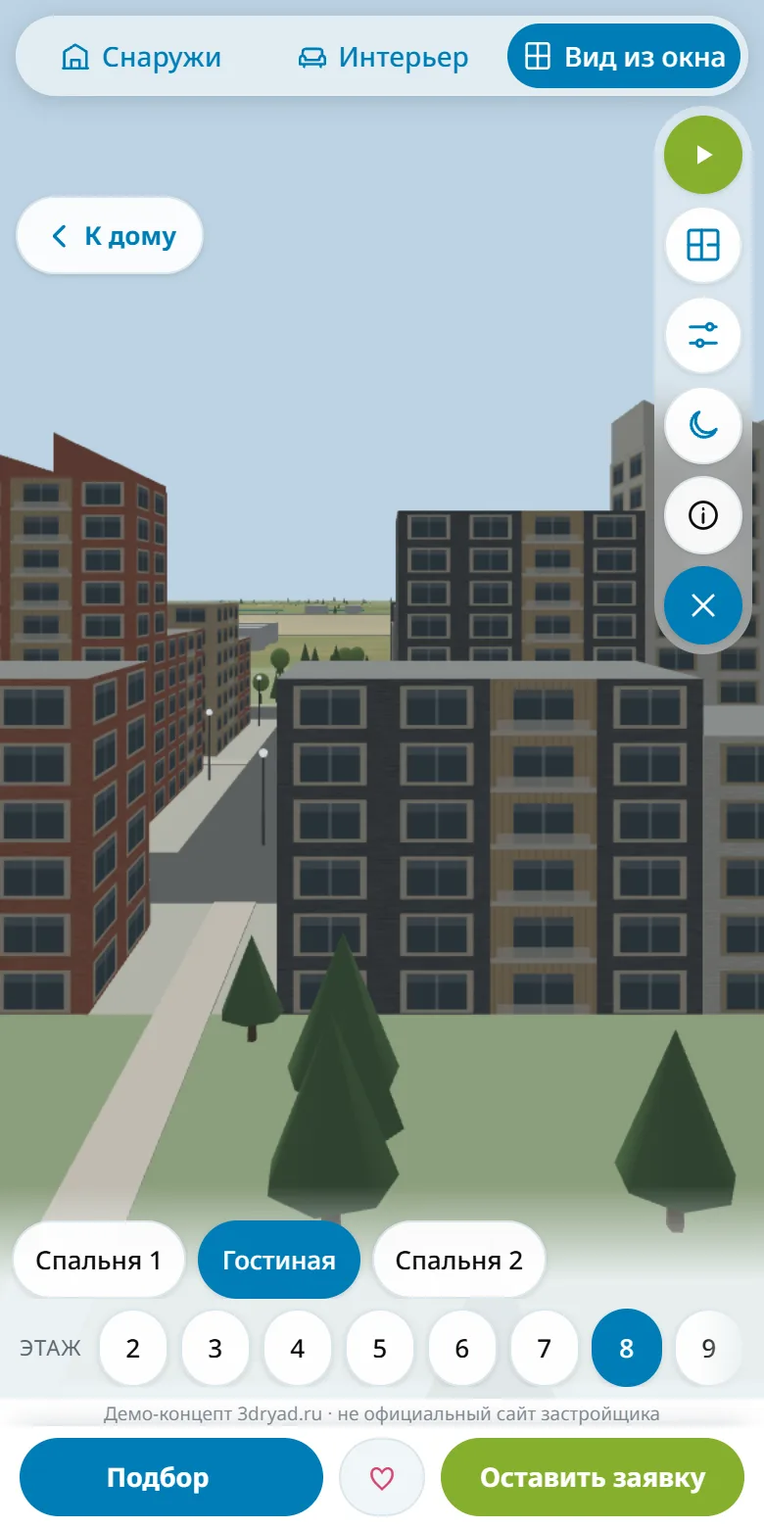
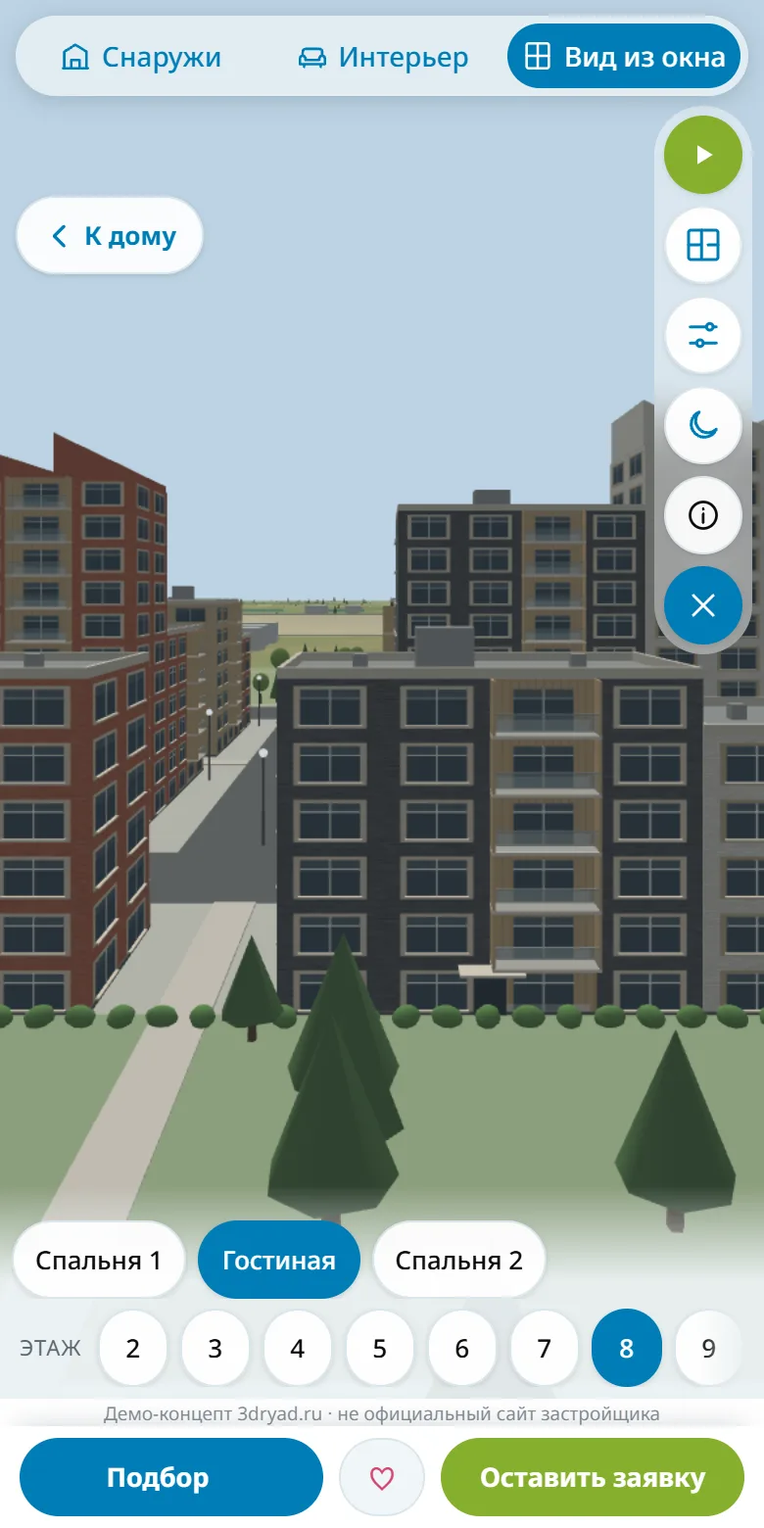
Детализация 3D: лоджии, окна, входы и кровли на фасадах; двери, шторы, кухня, санузел и декор в квартире; площадка, скамейки, изгороди во дворе

diff --git a/demo/index.html b/demo/index.html
@@ -843,13 +843,13 @@ body.siderail .fullnote{left:12px;right:auto;bottom:8px;width:236px;text-align:c
   const STYLES = {
     scandi: { name: 'Светлый', dots: ['#c9a77c', '#f1eee8', '#8f9aa0', '#5f8a78'], c: {
       floorW: '#cfae84', floorT: '#dfe4e3', wall: '#f0ede7', trim: '#fbfbfa', sofa: '#8d99a0', linen: '#e9e7e1', accent: '#5f8a78',
-      wood: '#b88f5e', cab: '#f1efea', counter: '#d6d2ca', dark: '#3a3f42', rug: '#ded6c6', metal: '#a2a8ab', slab: '#c8cdcd' } },
+      wood: '#b88f5e', cab: '#f1efea', counter: '#d6d2ca', dark: '#3a3f42', rug: '#ded6c6', metal: '#a2a8ab', slab: '#c8cdcd', curtain: '#e6e2da' } },
     loft: { name: 'Тёмный', dots: ['#5a4a3c', '#b9b4ac', '#6b4a37', '#c26a3a'], c: {
       floorW: '#6a5444', floorT: '#5a5e60', wall: '#b7b2aa', trim: '#d8d4cd', sofa: '#6d4b38', linen: '#4a5157', accent: '#c26a3a',
-      wood: '#7a5a3f', cab: '#2f3336', counter: '#55585a', dark: '#1f2224', rug: '#2e3033', metal: '#8a9094', slab: '#8e8b86' } },
+      wood: '#7a5a3f', cab: '#2f3336', counter: '#55585a', dark: '#1f2224', rug: '#2e3033', metal: '#8a9094', slab: '#8e8b86', curtain: '#5a5e63' } },
     warm: { name: 'Тёплый', dots: ['#a67c52', '#eadfd0', '#b87a56', '#8a3f2b'], c: {
       floorW: '#ad8358', floorT: '#d8cbbb', wall: '#eadfd0', trim: '#f7f1e8', sofa: '#b87a56', linen: '#f1e6d8', accent: '#8a3f2b',
-      wood: '#8c6239', cab: '#d8c5ad', counter: '#b9a186', dark: '#3b3029', rug: '#c9b59a', metal: '#a69a8e', slab: '#cdbfae' } }
+      wood: '#8c6239', cab: '#d8c5ad', counter: '#b9a186', dark: '#3b3029', rug: '#c9b59a', metal: '#a69a8e', slab: '#cdbfae', curtain: '#e9d7c2' } }
   };
 
   /* ---------- renderer ---------- */
@@ -948,7 +948,7 @@ body.siderail .fullnote{left:12px;right:auto;bottom:8px;width:236px;text-align:c
   /* ---------- materials ---------- */
   const mats = {};
   const std = (rough, metal) => new THREE.MeshStandardMaterial({ roughness: rough, metalness: metal || 0 });
-  ['wall', 'trim', 'sofa', 'linen', 'accent', 'wood', 'cab', 'counter', 'dark', 'rug', 'metal', 'slab'].forEach((k) => {
+  ['wall', 'trim', 'sofa', 'linen', 'accent', 'wood', 'cab', 'counter', 'dark', 'rug', 'metal', 'slab', 'curtain'].forEach((k) => {
     mats[k] = std(k === 'metal' ? 0.35 : 0.82, k === 'metal' ? 0.6 : 0);
   });
   mats.floorW = std(0.7); mats.floorW.map = plankTex();
@@ -962,6 +962,7 @@ body.siderail .fullnote{left:12px;right:auto;bottom:8px;width:236px;text-align:c
   mats.plant = std(0.9); mats.plant.color.set('#4f7a4a');
   mats.glass = new THREE.MeshBasicMaterial({ color: '#bcd8e3', transparent: true, opacity: 0.07, depthWrite: false });
   mats.glow = new THREE.MeshBasicMaterial({ color: '#fff6dd' });
+  mats.glass2 = new THREE.MeshPhongMaterial({ color: '#bfd6e0', specular: '#ffffff', shininess: 80, transparent: true, opacity: 0.35, depthWrite: false });
 
   /* ---------- groups ---------- */
   const root = new THREE.Group(); scene.add(root);
@@ -1114,6 +1115,94 @@ body.siderail .fullnote{left:12px;right:auto;bottom:8px;width:236px;text-align:c
   B('cab', 8.2, 6.05, 2.5, 0.5, 0.95); B('mirror', 8.7, 6.49, 1.2, 0.04, 1.4, 0.9);
   B('wood', 10.35, 6.0, 0.55, 0.5, 0.42);
   B('rug', 7.2, 4.8, 3.2, 0.9, 0.012);
+
+  /* ---------- design finish, the finer things: skirting, interior doors, curtains, radiators, a real kitchen and bathroom,
+     lamps and décor. Floor-standing pieces go to furn; anything hung on a wall above the cut line (1.1 m) goes to hiDecor,
+     shown only with the full-height walls, so nothing floats over the cut-away plan ---------- */
+  const hiDecor = new THREE.Group(), lowDecor = new THREE.Group(); root.add(hiDecor, lowDecor);
+  const Bh = (k, x, z, w, d, h, y0) => B(k, x, z, w, d, h, y0, hiDecor);
+  ROOMS.forEach((r) => {   // skirting, 8 cm, just inside the wall
+    const i = 0.06, t = 0.014, h = 0.08;
+    B('trim', r.x + i, r.z + i, r.w - 2 * i, t, h); B('trim', r.x + i, r.z + r.d - i - t, r.w - 2 * i, t, h);
+    B('trim', r.x + i, r.z + i, t, r.d - 2 * i, h); B('trim', r.x + r.w - i - t, r.z + i, t, r.d - 2 * i, h);
+  });
+  // interior doors: a frame in every opening, a leaf (in the accent colour, like the entrance) left ajar; the wide living-room opening stays open
+  function doorway(x, z, w, alongX, leaf, swing) {
+    [[hiDecor, 2.1], [lowDecor, CUT]].forEach((pair) => {
+      const grp = pair[0], hh = pair[1], t = 0.1;
+      if (alongX) { B('trim', x - 0.05, z - t / 2, 0.05, t, hh, 0, grp); B('trim', x + w, z - t / 2, 0.05, t, hh, 0, grp); if (hh > 2) B('trim', x - 0.05, z - t / 2, w + 0.1, t, 0.06, 2.1, grp); }
+      else { B('trim', x - t / 2, z - 0.05, t, 0.05, hh, 0, grp); B('trim', x - t / 2, z + w, t, 0.05, hh, 0, grp); if (hh > 2) B('trim', x - t / 2, z - 0.05, t, w + 0.1, 0.06, 2.1, grp); }
+      if (!leaf) return;
+      const g = new THREE.Group(); g.position.set(x, 0, z); g.rotation.y = swing; grp.add(g);
+      const lh = hh > 2 ? 2.04 : CUT - 0.02, d = new THREE.Mesh(new THREE.BoxGeometry(w - 0.04, lh, 0.04), mats.door); d.position.set(w / 2, lh / 2, 0); shade(d, true, true); g.add(d);
+      const h = new THREE.Mesh(new THREE.BoxGeometry(0.12, 0.03, 0.1), mats.metal); h.position.set(w - 0.12, 1.0, 0); g.add(h);
+    });
+  }
+  doorway(3.3, 0.5, 0.9, false, true, Math.PI / 2 + 0.55);      // bedroom 1 ↔ living, opens into the bedroom
+  doorway(6.2, 4.2, 1.4, true, false, 0);                      // living ↔ hall: an open passage
+  doorway(9.6, 4.2, 0.9, true, true, -0.5);                     // hall ↔ bedroom 2
+  doorway(2.8, 5.3, 0.8, false, true, Math.PI / 2 + 0.4);      // bathroom
+  doorway(6.0, 5.2, 0.9, false, true, Math.PI / 2 - 0.45);     // walk-in wardrobe
+  // curtains on a rod above every window, panels gathered at the sides
+  WIN.forEach((o) => {
+    const rod = new THREE.Mesh(new THREE.CylinderGeometry(0.012, 0.012, o.b - o.a + 0.5, 8).rotateZ(Math.PI / 2), mats.metal); rod.position.set((o.a + o.b) / 2, 2.5, 0.16); hiDecor.add(rod);
+    [o.a - 0.22, o.b - 0.12].forEach((x) => { B('curtain', x, 0.1, 0.34, 0.1, 2.45, 0.03, hiDecor).castShadow = false; B('curtain', x, 0.1, 0.34, 0.1, CUT - 0.05, 0.03, lowDecor).castShadow = false; });
+  });
+  // radiators under the windows (the design set; the pre-finish set lives in bareG)
+  WIN.forEach((o) => { const w = Math.min(1.0, o.b - o.a - 0.3), x = (o.a + o.b) / 2 - w / 2; B('white', x, 0.1, w, 0.06, 0.5, 0.22); for (let i = 0; i < 6; i++) B('trim', x + 0.08 + i * (w - 0.16) / 5, 0.09, 0.03, 0.08, 0.46, 0.24); });
+  // kitchen: handles, an oven, the hob rings, a hood, a splashback, a tap and a fridge handle
+  [0.95, 1.55, 2.15, 2.75].forEach((z) => B('metal', 7.17, z, 0.02, 0.2, 0.02, 0.8));
+  [0.95, 1.55, 2.15, 2.75].forEach((z) => B('metal', 7.4, z, 0.02, 0.2, 0.02, 1.56));
+  B('dark', 7.19, 1.35, 0.012, 0.5, 0.42, 0.22); B('metal', 7.17, 1.4, 0.02, 0.4, 0.02, 0.58);                  // oven door and its bar
+  [[7.33, 1.48], [7.57, 1.48], [7.33, 1.72], [7.57, 1.72]].forEach((p) => cyl('dark', p[0], 0.925, p[1], 0.08, 0.01));
+  Bh('white', 7.41, 0.7, 0.012, 2.6, 0.56, 0.93);                                                               // splashback
+  Bh('metal', 7.25, 1.15, 0.5, 0.9, 0.06, 1.42); Bh('metal', 7.45, 1.4, 0.3, 0.4, 0.06, 1.48);                  // hood
+  cyl('metal', 7.62, 0.92, 2.62, 0.016, 0.22); B('metal', 7.44, 2.61, 0.18, 0.02, 0.02, 1.12);                // tap
+  B('metal', 7.08, 0.62, 0.02, 0.03, 0.9, 0.8); B('dark', 7.095, 0.1, 0.01, 0.6, 0.01, 1.2);                  // fridge: handle, freezer line
+  // bathroom: water in the tub, a glass screen, taps, the washing-machine door, a towel rail, a light over the mirror
+  B('mirror', 0.18, 5.92, 1.55, 0.56, 0.02, 0.42);
+  { const s = new THREE.Mesh(new THREE.BoxGeometry(0.02, 1.4, 0.72), mats.glass2); s.position.set(0.9, 0.55 + 0.7, 6.21); furn.add(s); }
+  cyl('metal', 0.5, 0.86, 4.52, 0.016, 0.2); B('metal', 0.49, 4.5, 0.02, 0.14, 0.02, 1.04);                   // basin tap
+  cyl('metal', 1.78, 0.55, 6.2, 0.016, 0.18);                                                                   // tub tap
+  { const d = new THREE.Mesh(new THREE.CylinderGeometry(0.2, 0.2, 0.012, 20).rotateX(Math.PI / 2), mats.dark); d.position.set(1.65, 0.45, 4.905); furn.add(d);
+    const r = new THREE.Mesh(new THREE.CylinderGeometry(0.14, 0.14, 0.014, 20).rotateX(Math.PI / 2), mats.mirror); r.position.set(1.65, 0.45, 4.91); furn.add(r); }
+  B('white', 2.1, 6.0, 0.4, 0.55, 0.03, 0.4); B('dark', 2.16, 6.06, 0.28, 0.4, 0.01, 0.43);                    // toilet seat and lid gap
+  B('metal', 2.73, 5.0, 0.02, 0.6, 0.02, 1.05); B('accent', 2.69, 5.05, 0.04, 0.5, 0.45, 0.6);                // towel rail with a towel
+  Bh('glow', 0.25, 4.29, 0.6, 0.02, 0.03, 2.12);
+  // bedrooms: pillows, padded headboards, lamps on the nightstands, wardrobe doors, a laptop on the desk, a picture
+  function pillow(x, z, y) { const p = new THREE.Mesh(new THREE.SphereGeometry(0.22, 12, 8), mats.white); p.position.set(x, y, z); p.scale.set(1, 0.42, 0.72); shade(p, true, true); furn.add(p); }
+  function lamp(x, z, y) { cyl('metal', x, y, z, 0.06, 0.02); cyl('metal', x, y + 0.02, z, 0.012, 0.28); const s = new THREE.Mesh(new THREE.CylinderGeometry(0.1, 0.13, 0.17, 16, 1, true), mats.linen); s.material.side = THREE.DoubleSide; s.position.set(x, y + 0.38, z); furn.add(s); }
+  function floorLamp(x, z) { cyl('metal', x, 0, z, 0.14, 0.02); cyl('metal', x, 0.02, z, 0.014, 1.45); const s = new THREE.Mesh(new THREE.CylinderGeometry(0.16, 0.2, 0.28, 18, 1, true), mats.linen); s.material.side = THREE.DoubleSide; s.position.set(x, 1.58, z); furn.add(s); }
+  pillow(0.5, 1.65, 0.6); pillow(0.5, 2.55, 0.6); pillow(10.55, 1.35, 0.6); pillow(10.55, 2.25, 0.6);
+  B('sofa', 0.08, 1.28, 0.05, 1.64, 0.6, 0.45); B('sofa', 10.87, 0.98, 0.05, 1.64, 0.6, 0.45);
+  lamp(0.3, 1.02, 0.45); lamp(0.3, 3.17, 0.45); lamp(10.7, 0.72, 0.45); lamp(10.7, 2.87, 0.45);
+  [1, 2, 3].forEach((k) => { B('dark', 0.1 + 0.575 * k - 0.004, 3.54, 0.008, 0.012, 2.2, 0.05); B('metal', 0.1 + 0.575 * k - 0.07, 3.53, 0.02, 0.012, 0.22, 1.0); });
+  [1, 2, 3].forEach((k) => { B('dark', 8.42, 0.9 + 0.55 * k - 0.004, 0.012, 0.008, 2.2, 0.05); B('metal', 8.43, 0.9 + 0.55 * k - 0.07, 0.012, 0.02, 0.22, 1.0); });
+  B('dark', 2.4, 0.35, 0.32, 0.22, 0.015, 0.745); B('dark', 2.4, 0.33, 0.32, 0.012, 0.2, 0.76);                // laptop
+  lamp(3.05, 0.35, 0.74);
+  Bh('accent', 0.085, 1.85, 0.02, 0.55, 0.42, 1.45); Bh('linen', 0.087, 1.9, 0.02, 0.45, 0.32, 1.5);          // picture over the bed
+  Bh('linen', 10.9, 1.5, 0.02, 0.6, 0.45, 1.45); Bh('accent', 10.898, 1.55, 0.02, 0.5, 0.35, 1.5);
+  // living room: cushions on the sofa, a throw, a floor lamp, shelves with books over the TV, a bowl on the coffee table
+  B('sofa', 5.0, 2.5, 0.28, 0.75, 0.3, 0.42); B('sofa', 5.0, 3.25, 0.28, 0.75, 0.3, 0.42);
+  B('linen', 4.9, 3.6, 0.6, 0.5, 0.06, 0.84);
+  floorLamp(5.75, 4.05);
+  B('accent', 4.25, 3.15, 0.2, 0.2, 0.08, 0.38); B('white', 4.15, 2.9, 0.16, 0.16, 0.05, 0.38);
+  Bh('wood', 3.32, 1.9, 0.25, 1.9, 0.03, 1.75); Bh('wood', 3.32, 1.9, 0.25, 1.9, 0.03, 2.2);
+  [[2.0, 'accent'], [2.18, 'dark'], [2.3, 'linen'], [2.55, 'sofa'], [3.1, 'accent'], [3.3, 'dark']].forEach((b) => Bh(b[1], 3.36, b[0], 0.16, 0.08, 0.22, 1.78));
+  [[2.1, 'linen'], [2.25, 'accent'], [2.9, 'dark'], [3.05, 'sofa'], [3.2, 'linen']].forEach((b) => Bh(b[1], 3.36, b[0], 0.16, 0.1, 0.2, 2.23));
+  { const p = new THREE.Mesh(new THREE.SphereGeometry(0.11, 10, 8), mats.plant); p.position.set(3.45, 2.32, 3.6); hiDecor.add(p); }
+  B('dark', 3.5, 2.35, 0.12, 1.2, 0.03, 0.5); B('dark', 3.62, 2.65, 0.3, 0.6, 0.02, 0.5);                      // TV stand
+  // dining table: a runner and a bowl; two glasses
+  B('linen', 5.35, 1.05, 1.1, 0.3, 0.01, 0.745); cyl('white', 5.9, 0.755, 1.22, 0.12, 0.05); cyl('mirror', 5.6, 0.755, 0.95, 0.03, 0.09); cyl('mirror', 6.2, 0.755, 1.5, 0.03, 0.09);
+  // hall: hooks with a coat, shoes by the door, a plant
+  [8.5, 8.8, 9.1, 9.4].forEach((x) => Bh('metal', x, 6.5, 0.03, 0.06, 0.03, 1.65));
+  Bh('sofa', 8.72, 6.42, 0.3, 0.1, 0.55, 1.1); B('dark', 10.6, 4.4, 0.28, 0.1, 0.07, 0); B('dark', 10.6, 4.55, 0.28, 0.1, 0.07, 0);
+  plant(6.35, 4.5, 0.8);
+  // walk-in wardrobe: open shelving with folded clothes and a rail with hangers
+  B('cab', 2.95, 4.3, 1.5, 0.4, 2.1); [0.45, 0.85, 1.25, 1.65].forEach((y) => B('trim', 2.97, 4.31, 1.46, 0.38, 0.02, y));
+  [[3.05, 'accent', 0.47], [3.45, 'linen', 0.47], [3.85, 'sofa', 0.47], [3.1, 'dark', 0.87], [3.6, 'accent', 0.87], [3.15, 'linen', 1.27], [3.55, 'sofa', 1.27], [3.95, 'dark', 1.27]].forEach((c) => B(c[1], c[0], 4.36, 0.32, 0.3, 0.1, c[2]));
+  { const rod = new THREE.Mesh(new THREE.CylinderGeometry(0.012, 0.012, 1.4, 8).rotateZ(Math.PI / 2), mats.metal); rod.position.set(5.2, 1.9, 4.5); hiDecor.add(rod); }
+  [[4.6, 'accent'], [4.8, 'linen'], [5.0, 'dark'], [5.2, 'sofa'], [5.4, 'linen'], [5.6, 'accent']].forEach((c) => { Bh(c[1], c[0], 4.4, 0.14, 0.2, 0.85, 1.02); });
 
   /* ---------- what is in the apartment as sold (pre-finish per uds-d.ru; positions of radiators, meters, bulbs are approximate) ---------- */
   [[1.15, 0.9], [8.9, 0.9]].forEach((p) => B('white', p[0], 0.1, 1.0, 0.08, 0.55, 0.2, bareG));      // radiators under bedroom windows
@@ -1283,12 +1372,113 @@ body.siderail .fullnote{left:12px;right:auto;bottom:8px;width:236px;text-align:c
     while (placed < 18 && guard++ < 300) {
       const x = cx + (tr() - 0.5) * 66, z = cz + (tr() - 0.5) * 46;
       if (Math.abs(x - cx) < 4 || Math.abs(z - cz) < 4) continue;
+      if (Math.abs(x - (cx + 20)) < 9.5 && Math.abs(z - (cz + (qi < 3 ? 12 : -12))) < 7) continue;   // not on the playground
       treeSpots.push([x, z, 0.8 + tr() * 0.5]); placed++;
     }
   });
   { // Arctic Lyceum and the kindergarten (schematic positions)
     const l = box(-330, -30, 96, 36, 4, '#E1DED6', 'Арктический лицей', 15); l.userData.name = 'Арктический лицей';
     [[-310, 80, 28, 12], [-290, 94, 12, 18]].forEach((p) => { const k = box(p[0], p[1], p[2], p[3], 2, '#E4E5DE', 'Детский сад', 6); k.userData.name = 'Детский сад'; });
+  }
+  /* ---------- facade detail: real geometry over the painted brick, lined up with the texture (one column = 64 px of the 256 px tile,
+     a window = px 14..50 of the column, px 12..52 of the 64 px floor). Glossy panes with sills, mullions and transoms; loggias in the
+     third column of every four: slab, glass rail with a handrail, wood side panels; a plinth; entrances with canopies on the yard side;
+     parapets, lift machine rooms and vents on the flat roofs. All instanced: a dozen draw calls for the whole complex.
+     A section whose mesh is hidden (chosen house drawn as glass, a floor cut open, our section in the apartment views) hides its
+     instances too: their matrices are zeroed in syncDetails(). ---------- */
+  const DET_M = {
+    pane: new THREE.MeshPhongMaterial({ color: '#4f6878', specular: '#e6eef2', shininess: 90, transparent: true, opacity: 0.42, depthWrite: false }),
+    sill: new THREE.MeshLambertMaterial({ color: '#ded5c4' }), bar: new THREE.MeshLambertMaterial({ color: '#eceae4' }),
+    slab: new THREE.MeshLambertMaterial({ color: '#e4ddd0' }), rail: new THREE.MeshPhongMaterial({ color: '#a9c6d3', specular: '#ffffff', shininess: 70, transparent: true, opacity: 0.4, depthWrite: false }),
+    hand: new THREE.MeshLambertMaterial({ color: '#8a8f93' }), wood: new THREE.MeshLambertMaterial({ color: '#c7a982' }),
+    plinth: new THREE.MeshLambertMaterial({ color: '#55585b' }), door: new THREE.MeshLambertMaterial({ color: '#2f3a44' }), canopy: new THREE.MeshLambertMaterial({ color: '#d8d2c6' }),
+    step: new THREE.MeshLambertMaterial({ color: '#b5b3ad' }), par: new THREE.MeshLambertMaterial({ color: '#d2cbbe' }), lift: new THREE.MeshLambertMaterial({ color: '#9ca0a2' })
+  };
+  const DET_KEYS = Object.keys(DET_M);
+  const detSets = {}; DET_KEYS.forEach((k) => { detSets[k] = { m: [], sec: [], fl: [] }; });
+  const detG = new THREE.Group(); outside.add(detG); const detInst = {}, ZERO_M = new THREE.Matrix4().makeScale(0, 0, 0);
+  {
+    const dm = new THREE.Object3D(), unit = new THREE.BoxGeometry(1, 1, 1);
+    SECTIONS.forEach((sec) => {
+      const len = sec.len, dep = sec.depth, fl = sec.floors, top = fl * 3;
+      const q = QUARTERS[sec.q - 1];
+      // a face: origin (u = 0), unit vectors U along the facade and N outward, its rotation about y, extent, whether it is long and whether it faces the yard
+      const faces = [];
+      if (sec.alongX) {
+        const yard = sec.cz < q.cz ? 1 : -1;   // north wing: the yard is to the south (+z)
+        faces.push({ o: [sec.cx - len / 2, sec.cz + dep / 2], U: [1, 0], N: [0, 1], r: 0, ext: len, lng: true, yard: yard === 1 });
+        faces.push({ o: [sec.cx + len / 2, sec.cz - dep / 2], U: [-1, 0], N: [0, -1], r: Math.PI, ext: len, lng: true, yard: yard === -1 });
+        faces.push({ o: [sec.cx + len / 2, sec.cz + dep / 2], U: [0, -1], N: [1, 0], r: Math.PI / 2, ext: dep, lng: false, yard: false });
+        faces.push({ o: [sec.cx - len / 2, sec.cz - dep / 2], U: [0, 1], N: [-1, 0], r: -Math.PI / 2, ext: dep, lng: false, yard: false });
+      } else {
+        const yard = sec.cx < q.cx ? 1 : -1;   // west wing: the yard is to the east (+x)
+        faces.push({ o: [sec.cx + dep / 2, sec.cz + len / 2], U: [0, -1], N: [1, 0], r: Math.PI / 2, ext: len, lng: true, yard: yard === 1 });
+        faces.push({ o: [sec.cx - dep / 2, sec.cz - len / 2], U: [0, 1], N: [-1, 0], r: -Math.PI / 2, ext: len, lng: true, yard: yard === -1 });
+        faces.push({ o: [sec.cx - dep / 2, sec.cz + len / 2], U: [1, 0], N: [0, 1], r: 0, ext: dep, lng: false, yard: false });
+        faces.push({ o: [sec.cx + dep / 2, sec.cz - len / 2], U: [-1, 0], N: [0, -1], r: Math.PI, ext: dep, lng: false, yard: false });
+      }
+      let curFl = 0;
+      const put = (key, f, u, y, n, sx, sy, sz) => {
+        dm.position.set(f.o[0] + f.U[0] * u + f.N[0] * n, y, f.o[1] + f.U[1] * u + f.N[1] * n);
+        dm.rotation.set(0, f.r, 0); dm.scale.set(sx, sy, sz); dm.updateMatrix(); detSets[key].m.push(dm.matrix.clone()); detSets[key].sec.push(sec.i); detSets[key].fl.push(curFl);
+      };
+      faces.forEach((f) => {
+        const nCol = Math.max(4, Math.round(f.ext / 6)) * (f.lng ? 1 : 0.5), colW = f.ext / nCol;   // short faces show half a tile: two columns
+        const ww = colW * 36 / 64;
+        for (let i = 0; i < nCol; i++) {
+          const u = (i + 0.5) * colW, loggia = f.lng && i % 4 === 2;
+          for (let k = 0; k < fl; k++) {
+            if (k === 0 && f.lng && !f.yard) continue;   // the glazed gallery covers the street side of the ground floor
+            curFl = k; const y0 = k * 3, wb = y0 + (loggia ? 0.28 : 0.5625), wt = y0 + 2.4375, wh = wt - wb;
+            put('pane', f, u, (wb + wt) / 2, 0.015, ww, wh, 0.02);
+            put('bar', f, u, (wb + wt) / 2, 0.03, 0.07, wh, 0.05);                       // mullion
+            if (f.lng) put('bar', f, u, wt - 0.47, 0.03, ww, 0.06, 0.05);                // transom under the top light (long faces only: fewer triangles)
+            if (!loggia) put('sill', f, u, wb - 0.04, 0.1, ww + 0.22, 0.08, 0.24);
+            if (loggia && k > 0) {
+              put('slab', f, u, y0 + 0.09, 0.66, colW, 0.18, 1.32);
+              put('rail', f, u, y0 + 0.72, 1.28, colW - 0.3, 1.05, 0.04);
+              put('hand', f, u, y0 + 1.27, 1.28, colW - 0.3, 0.06, 0.1);
+              [-1, 1].forEach((s) => put('wood', f, u + s * (colW / 2 - 0.07), y0 + 1.59, 0.66, 0.14, 2.82, 1.32));
+            }
+          }
+        }
+        curFl = 0;
+        if (f.lng && f.yard) {   // the entrance: between the second and third columns, a dark glazed door, a canopy and a step
+          const u = 2 * colW;
+          put('door', f, u, 1.25, 0.06, 1.7, 2.5, 0.12);
+          put('canopy', f, u, 2.85, 0.75, 3.4, 0.14, 1.5);
+          put('step', f, u, 0.08, 0.7, 3.2, 0.16, 1.4);
+        }
+      });
+      // plinth all round, parapet and roof equipment on the flat roofs (the tall towers carry gables instead)
+      const cx = sec.cx, cz = sec.cz, sx = sec.alongX ? len : dep, sz = sec.alongX ? dep : len;
+      dm.rotation.set(0, 0, 0);
+      const box = (key, x, y, z, w, h, d, flr) => { dm.position.set(x, y, z); dm.scale.set(w, h, d); dm.updateMatrix(); detSets[key].m.push(dm.matrix.clone()); detSets[key].sec.push(sec.i); detSets[key].fl.push(flr); };
+      box('plinth', cx, 0.24, cz, sx + 0.16, 0.48, sz + 0.16, 0);
+      if (!sec.gab) {
+        box('par', cx, top + 0.3, cz - sz / 2 + 0.15, sx, 0.6, 0.3, 99); box('par', cx, top + 0.3, cz + sz / 2 - 0.15, sx, 0.6, 0.3, 99);
+        box('par', cx - sx / 2 + 0.15, top + 0.3, cz, 0.3, 0.6, sz, 99); box('par', cx + sx / 2 - 0.15, top + 0.3, cz, 0.3, 0.6, sz, 99);
+        box('lift', cx + (sec.alongX ? 2 : 0), top + 1.25, cz + (sec.alongX ? 0 : 2), sec.alongX ? 3.4 : 2.6, 2.5, sec.alongX ? 2.6 : 3.4, 99);
+        box('lift', cx - (sec.alongX ? 6 : 0), top + 0.45, cz - (sec.alongX ? 0 : 6), 0.9, 0.9, 0.9, 99);
+        box('lift', cx + (sec.alongX ? 7 : 0), top + 0.45, cz + (sec.alongX ? 0 : 7), 0.9, 0.9, 0.9, 99);
+      }
+    });
+    DET_KEYS.forEach((k) => {
+      const d = detSets[k]; if (!d.m.length) return;
+      const im = new THREE.InstancedMesh(unit, DET_M[k], d.m.length);
+      d.m.forEach((m, i) => im.setMatrixAt(i, m));
+      if (k === 'pane' || k === 'rail') im.renderOrder = 2;
+      detG.add(im); detInst[k] = im;
+    });
+  }
+  function syncDetails() {
+    const fv = S.mode === 'ext' && S.extView === 'floor';
+    SECTIONS.forEach((sec) => {
+      // 'on' / 'off', or 'f<n>': cut open at floor n — only the floors below keep their windows and loggias
+      const key = sec.mesh.visible ? 'on' : (fv && sec.i === S.sec ? 'f' + S.floor : 'off'); if (sec.detOn === key) return; sec.detOn = key;
+      const below = key[0] === 'f' ? S.floor - 1 : -1;
+      DET_KEYS.forEach((k) => { const d = detSets[k], im = detInst[k]; if (!im) return; for (let i = 0; i < d.sec.length; i++) if (d.sec[i] === sec.i) im.setMatrixAt(i, key === 'on' || (below >= 0 && d.fl[i] < below) ? d.m[i] : ZERO_M); im.instanceMatrix.needsUpdate = true; });
+    });
   }
   const mLed = new THREE.MeshBasicMaterial({ color: '#ffd9a0' });
   const ledMesh = new THREE.InstancedMesh(new THREE.BoxGeometry(1, 0.22, 1), mLed, ledSpots.length);
@@ -1317,6 +1507,7 @@ body.siderail .fullnote{left:12px;right:auto;bottom:8px;width:236px;text-align:c
     const r = rngMake(31), mLot = new THREE.MeshLambertMaterial({ color: '#6b7075' }), mSand = new THREE.MeshLambertMaterial({ color: '#d8c48f' });
     const mField = new THREE.MeshLambertMaterial({ color: '#4f8a4a' }), mTrack = new THREE.MeshLambertMaterial({ color: '#a0563f' });
     const mPlay = ['#e0553f', '#f2b04a', '#3f8fd2', '#5bb36a'].map((c) => new THREE.MeshLambertMaterial({ color: c }));
+    const mRubber = new THREE.MeshLambertMaterial({ color: '#b9c99a' }), mHedge = new THREE.MeshLambertMaterial({ color: '#5d8a4e' }), benches = [], bushes = [], flowers = [];
     const mGhost = new THREE.MeshLambertMaterial({ color: '#ffffff', transparent: true, opacity: 0.35, depthWrite: false });
     // sidewalks along the main streets and walking paths to the lyceum and kindergarten
     [-104, 104].forEach((z0) => { slab(0, z0 - 15, 444, 3, 0.16, mPave); slab(0, z0 + 15, 444, 3, 0.16, mPave); });
@@ -1338,11 +1529,40 @@ body.siderail .fullnote{left:12px;right:auto;bottom:8px;width:236px;text-align:c
     // sports ground of the lyceum, playgrounds in every courtyard, the planned kindergarten plot
     slab(-330, 32, 74, 46, 0.2, mTrack); slab(-330, 32, 60, 32, 0.24, mField);
     QUARTERS.forEach((q, qi) => {
-      const px = q.cx + 20, pz = q.cz + (qi < 3 ? 12 : -12);
-      slab(px, pz, 16, 11, 0.36, mSand);
-      [[-4, -2, 2.4, 2.5, 1.6], [2, 2, 3, 1.4, 1.2], [5, -3, 1.2, 3, 1.2], [-3, 3, 1.6, 1.6, 2.2]].forEach((b, i) => { const m = new THREE.Mesh(new THREE.BoxGeometry(b[2], b[4], b[3]), mPlay[i]); m.position.set(px + b[0], 0.36 + b[4] / 2, pz + b[1]); outside.add(m); });
-      for (let i = 0; i < 4; i++) { const m = new THREE.Mesh(new THREE.BoxGeometry(1.6, 0.45, 0.5), mTrunk); m.position.set(q.cx - 18 + i * 5, 0.55, q.cz + (qi < 3 ? -12 : 12)); outside.add(m); }
+      // playground: rubber surface on sand, a slide, a swing, a carousel, a sandbox; benches with backs along the paths; bike racks
+      const px = q.cx + 20, pz = q.cz + (qi < 3 ? 12 : -12), sd = qi < 3 ? 1 : -1;
+      slab(px, pz, 16, 11, 0.36, mSand); slab(px, pz, 12, 8, 0.4, mRubber);
+      const mesh = (geo, m, x, y, z, ry) => { const o = new THREE.Mesh(geo, m); o.position.set(x, y, z); if (ry) o.rotation.y = ry; outside.add(o); return o; };
+      mesh(new THREE.BoxGeometry(1.2, 0.12, 1.2), mPlay[1], px - 4, 1.6, pz - 2);                                  // slide: platform, posts, the chute, a ladder
+      [[-4.5, -2.5], [-3.5, -2.5], [-4.5, -1.5], [-3.5, -1.5]].forEach((p) => mesh(new THREE.BoxGeometry(0.08, 1.6, 0.08), mPole, px + p[0], 1.2, pz + p[1]));
+      { const c = mesh(new THREE.BoxGeometry(0.7, 0.08, 2.6), mPlay[0], px - 4, 1.0, pz - 0.55); c.rotation.x = -0.6; }
+      [0.5, 0.8, 1.1, 1.4].forEach((y) => mesh(new THREE.BoxGeometry(0.6, 0.04, 0.04), mPole, px - 4, y, pz - 2.65));
+      [[-1.6, 0], [1.6, 0]].forEach((p) => mesh(new THREE.BoxGeometry(0.1, 2.2, 0.1), mPlay[2], px + 2 + p[0], 1.5, pz + 2));   // swing
+      mesh(new THREE.BoxGeometry(3.4, 0.1, 0.1), mPlay[2], px + 2, 2.6, pz + 2);
+      [-0.7, 0.7].forEach((dx) => { mesh(new THREE.BoxGeometry(0.45, 0.05, 0.2), mPlay[3], px + 2 + dx, 0.9, pz + 2); [-0.18, 0.18].forEach((r) => mesh(new THREE.BoxGeometry(0.02, 1.7, 0.02), mPole, px + 2 + dx + r, 1.75, pz + 2)); });
+      mesh(new THREE.CylinderGeometry(1.1, 1.1, 0.1, 18), mPlay[1], px + 5, 0.55, pz - 2.5); mesh(new THREE.CylinderGeometry(0.06, 0.06, 1.0, 8), mPole, px + 5, 1.0, pz - 2.5);   // carousel
+      [[0, -1.3, 2.8, 0.25], [0, 1.3, 2.8, 0.25], [-1.3, 0, 0.25, 2.8], [1.3, 0, 0.25, 2.8]].forEach((b) => mesh(new THREE.BoxGeometry(b[2], 0.3, b[3]), mTrunk, px - 1 + b[0], 0.55, pz + 2.5 + b[1]));   // sandbox
+      for (let i = 0; i < 4; i++) benches.push([q.cx - 18 + i * 5, q.cz - sd * 12, 0]);
+      for (let i = 0; i < 3; i++) benches.push([q.cx + 30, q.cz - 8 + i * 8, Math.PI / 2]);
+      [[q.cx - 30, q.cz + sd * 14]].forEach((p) => { for (let i = 0; i < 4; i++) mesh(new THREE.TorusGeometry(0.4, 0.03, 6, 12, Math.PI), mPole, p[0], 0.5, p[1] + i * 0.8); });   // bike rack
+      // hedges and flower beds along the yard faces of the sections and round the playground
+      const hx = QW / 2 - WD - 1.2, hz = QD / 2 - WD - 1.2;
+      for (let x = -hx + 2; x <= hx - 2; x += 2.1) { bushes.push([q.cx + x, q.cz - hz, 0.9]); bushes.push([q.cx + x, q.cz + hz, 0.9]); }
+      for (let z = -hz + 3; z <= hz - 3; z += 2.1) { bushes.push([q.cx - hx, q.cz + z, 0.9]); bushes.push([q.cx + hx, q.cz + z, 0.9]); }
+      for (let i = 0; i < 10; i++) flowers.push([px - 7 + i * 1.5, pz + sd * 6.6, i % 3]);
     });
+    { // benches: seat, back and legs, instanced; hedges: flattened spheres; flower beds: small coloured discs
+      const n = benches.length, seat = new THREE.InstancedMesh(new THREE.BoxGeometry(1.7, 0.06, 0.45).translate(0, 0.47, 0), mTrunk, n);
+      const back = new THREE.InstancedMesh(new THREE.BoxGeometry(1.7, 0.4, 0.05).translate(0, 0.78, -0.22), mTrunk, n), legs = new THREE.InstancedMesh(new THREE.BoxGeometry(1.5, 0.44, 0.06).translate(0, 0.22, 0), mPole, n);
+      benches.forEach((b, i) => { dm.position.set(b[0], 0.3, b[1]); dm.rotation.set(0, b[2], 0); dm.scale.setScalar(1); dm.updateMatrix(); seat.setMatrixAt(i, dm.matrix); back.setMatrixAt(i, dm.matrix); legs.setMatrixAt(i, dm.matrix); });
+      outside.add(seat, back, legs);
+      const hb = new THREE.InstancedMesh(new THREE.SphereGeometry(0.75, 8, 6).translate(0, 0.55, 0), mHedge, bushes.length);
+      bushes.forEach((b, i) => { dm.position.set(b[0], 0.3, b[1]); dm.rotation.set(0, i * 0.7, 0); dm.scale.set(b[2] * 1.3, b[2] * 0.8, b[2]); dm.updateMatrix(); hb.setMatrixAt(i, dm.matrix); });
+      outside.add(hb); yardTrees.push(hb);
+      const fb = new THREE.InstancedMesh(new THREE.CylinderGeometry(0.6, 0.65, 0.22, 10).translate(0, 0.11, 0), new THREE.MeshLambertMaterial({ color: '#ffffff' }), flowers.length), fc = new THREE.Color();
+      flowers.forEach((f, i) => { dm.position.set(f[0], 0.36, f[1]); dm.rotation.set(0, 0, 0); dm.scale.setScalar(1); dm.updateMatrix(); fb.setMatrixAt(i, dm.matrix); fb.setColorAt(i, fc.set(['#d9536b', '#e8b640', '#8f5fb8'][f[2]])); });
+      outside.add(fb); yardTrees.push(fb);
+    }
     slab(178, 52, 50, 40, 0.24, mLawn);
     const kg = new THREE.Mesh(new THREE.BoxGeometry(36, 7, 20), mGhost); kg.position.set(178, 3.6, 52); outside.add(kg);
     outside.add(new THREE.LineSegments(new THREE.EdgesGeometry(kg.geometry), new THREE.LineBasicMaterial({ color: '#7f9299' })).translateX(178).translateY(3.6).translateZ(52));
@@ -1564,6 +1784,7 @@ body.siderail .fullnote{left:12px;right:auto;bottom:8px;width:236px;text-align:c
     pkG.visible = ext && S.extView === 'parking'; yardTrees.forEach((m) => { m.visible = !pkG.visible; });
     haloMat.opacity = S.extView === 'all' || S.extView === 'area' ? 0.32 : 0.14;   // from afar the chosen house must stand out more
     cellG.visible = ext && !fv && S.extView !== 'parking';
+    syncDetails();
     rebuildFloor();
   }
 
@@ -1739,6 +1960,7 @@ body.siderail .fullnote{left:12px;right:auto;bottom:8px;width:236px;text-align:c
     mTree.color.set(day ? '#4d6f47' : '#223225'); mRoof.color.set(day ? '#8c9193' : '#3c4144');
     Object.keys(facadeCache).forEach((k) => { facadeCache[k].color.set(day ? '#ffffff' : '#6f7b94'); facadeCache[k].emissiveIntensity = day ? 0 : 1; });
     mStrip.emissiveIntensity = day ? 0 : 0.85; ledMesh.visible = !day;   // shop windows and the roof lines light up in the evening
+    DET_M.pane.opacity = day ? 0.42 : 0.22; DET_M.pane.color.set(day ? '#4f6878' : '#2a3540');   // in the evening the lit windows of the texture show through
     mLampHead.color.set(day ? '#d5d9da' : '#ffe3a8'); mPool.visible = !day; aptMat.emissive.set(day ? '#7a4300' : '#d98a1f');
   }
 
@@ -1799,7 +2021,7 @@ body.siderail .fullnote{left:12px;right:auto;bottom:8px;width:236px;text-align:c
     const ownFloor = inExt && S.extView === 'floor' && SECTIONS[S.sec].own;   // a floor of our section: apartment A with furniture, core, neighbours
     root.visible = !inExt || (S.inner && isOwn()) || ownFloor;
     extG.visible = inExt;
-    furn.visible = S.finish === 'design' && !inWin;
+    furn.visible = S.finish === 'design' && !inWin; hiDecor.visible = wallsTall.visible && furn.visible; lowDecor.visible = wallsRender.visible && furn.visible;
     labelsEl.hidden = !(S.mode === 'int' && S.cam === 'top' && VIEWS[S.view].out); labelsEl.classList.toggle('sm', S.view === 'top');
     $('mini').hidden = !(S.mode === 'int' && S.cam === 'walk');
     stageEl.classList.toggle('walk', S.mode === 'int' && S.cam === 'walk');
@@ -3182,7 +3404,7 @@ body.siderail .fullnote{left:12px;right:auto;bottom:8px;width:236px;text-align:c
   if (!Q.has('classic')) setFull(true);
   if (Q.get('tour')) setTimeout(tourStart, 700);   // ?tour=1 — opens straight into the guided tour (sales office screen, the proposal page)
   requestAnimationFrame(frame);
-  window.__nv = { S: S, walk: walk, startWalk: startWalk, enterWindow: enterWindow, enterInterior: enterInterior, refresh: refresh, camera: camera, describe: describe, data: DATA_OK ? 'json' : 'generated' };
+  window.__nv = { S: S, renderer: renderer, scene: scene, controls: controls, walk: walk, startWalk: startWalk, enterWindow: enterWindow, enterInterior: enterInterior, refresh: refresh, camera: camera, describe: describe, data: DATA_OK ? 'json' : 'generated' };
 });
 </script>
 

diff --git a/CLAUDE.md b/CLAUDE.md
@@ -77,3 +77,9 @@
 - Демо всегда открывается на весь экран (`setFull(true)` при запуске, в том числе в iframe КП и с `?tour=1`; страница с панелями — `?classic=1`). 3D без рамок и отступов, вкладки режимов поверх сцены; `--tt` на `.stage` опускает верхние кнопки под вкладки.
 - Компьютер (≥1024px): полупрозрачное меню слева `#rail` (класс `body.siderail`; **не** `body.rail` — совпадает с `.rail{display:none}` и прячет страницу). `placeRail()` переносит туда `.tabs` и `#dock`: режимы, шаги Город…Паркинг (вертикальный список), комнаты/окна/этажи, ряды ⚙. Сворачивается в кнопку ☰ (`#railMin`/`#railOpen`, localStorage `nv-railmin`). `railW()` сдвигает центр кадра вправо (`setViewOffset` в `updateFov`), `dockH()` = 0, пока док в меню. Подпись «Демо-концепт» — под меню.
 - Телефон: инструменты — узкая полупрозрачная колонка справа (`.tbar` столбиком), вкладки и нижняя панель компактнее, мини-карта прогулки слева.
+
+## Детализация 3D (29.10.2026)
+- Фасады: поверх покрашенного кирпича — настоящая геометрия, выровненная по текстуре (колонка = 64 px плитки 256 px, окно px 14..50 колонки и px 12..52 этажа): глянцевые стёкла (`DET_M.pane`, MeshPhong, полупрозрачные — вечером сквозь них виден свет окон текстуры), подоконники, импосты и фрамуги; лоджии в третьей колонке каждой четвёрки (плита, стеклянное ограждение с поручнем, деревянные боковины); цоколь; вход с козырьком и ступенью на дворовой стороне (между 2-й и 3-й колонками); на плоских кровлях парапет, лифтовая будка и вентвыходы (у башен с «зубцами» — нет). Всё в `InstancedMesh` по типу (`detSets`/`detInst`, ~13 вызовов отрисовки на весь ЖК, ~30 тыс. инстансов, ~400 тыс. треугольников). `syncDetails()` (вызывается из `syncSections`) обнуляет матрицы инстансов секции, чей меш скрыт (выбранный дом «стеклом», наша секция в интерьере); для секции, разрезанной по этажу, остаются детали этажей ниже среза (`fl` у каждого инстанса).
+- Квартира (дизайн-проект, `furn`): плинтусы, межкомнатные двери с коробками и приоткрытыми полотнами (`doorway()`), шторы на карнизах, радиаторы с рёбрами, кухня (ручки, духовка, конфорки, вытяжка, фартук, смеситель), санузел (вода в ванне, стеклянная шторка `mats.glass2`, смесители, люк стиральной машины, полотенцесушитель, подсветка зеркала), подушки, мягкие изголовья, лампы на тумбах и торшер, фасады шкафов, ноутбук, полки с книгами над ТВ, крючки с одеждой в прихожей, полки и штанга с вешалками в гардеробе, посуда на столе. **Правило:** то, что стоит на полу, — в `furn`; то, что висит на стене выше среза 1,1 м (картины, полки, карниз, вытяжка, фартук, крючки, штанга) — в `hiDecor` (видно только с полными стенами: прогулка, вид «стены сплошные»); двери и шторы собраны дважды — полной высоты в `hiDecor` и срезанные до `CUT` в `lowDecor` (видно с низкими стенами), чтобы ничего не торчало над срезанным планом. Новый ключ материала `curtain` в `STYLES`.
+- Двор: детская площадка с резиновым покрытием (горка, качели, карусель, песочница), скамейки со спинками (инстансы), живая изгородь по дворовым фасадам (`mHedge`, инстансы сфер), цветники у площадки, велопарковка (полуторы). Деревья двора не ставятся на площадку. Изгородь и цветники прячутся вместе с деревьями в ракурсе «Паркинг» (`yardTrees`).
+- `window.__nv` теперь отдаёт `renderer`, `scene`, `controls` — для замеров (`renderer.info.render.calls/triangles`) и скриншотов с заданной камерой в тестах.

diff --git a/docs/TZ.md b/docs/TZ.md
@@ -40,7 +40,7 @@
 
 ## 3. Что в демо условно (важно не выдавать за факт)
 - Планировка А и типовые Б/В/Г, расположение квартир в секции, **место лифта, лестницы, вход** — придуманы, реальных поэтажных планов нет.
-- Положение и этажность корпусов — по схеме 3D-модели квартала, приблизительно.
+- Положение и этажность корпусов — по схеме 3D-модели квартала, приблизительно. Детали фасадов (лоджии, окна, входы, кровля, цоколь) и благоустройство двора — условные, по мотивам визуализаций, не по проекту.
 - Статусы и цены — из `data/apartments.json`, но сейчас там **пример** (`"sample": true`, сгенерирован `tools/gen-apartments.js`), до выгрузки от застройщика.
 - Названия улиц, кроме «ул. Мира», рельеф, озёра и лесотундра — схематичны. Микрорайоны, части города, реки и дороги — реальные контуры OpenStreetMap, но карта **повёрнута на ~18,6°**, чтобы реальная ул. Мира легла вдоль кварталов модели, а начало координат — у контура ЖК «Новелла» в OSM (там он ≈140×145 м, кварталы модели крупнее).
 - Состав предчистовой отделки — по сайту застройщика (uds-d.ru: стяжка, стены под штукатурку и окраску, входная дверь и окна, приборы учёта); расположение радиаторов, приборов и лампочек в 3D — условно.
